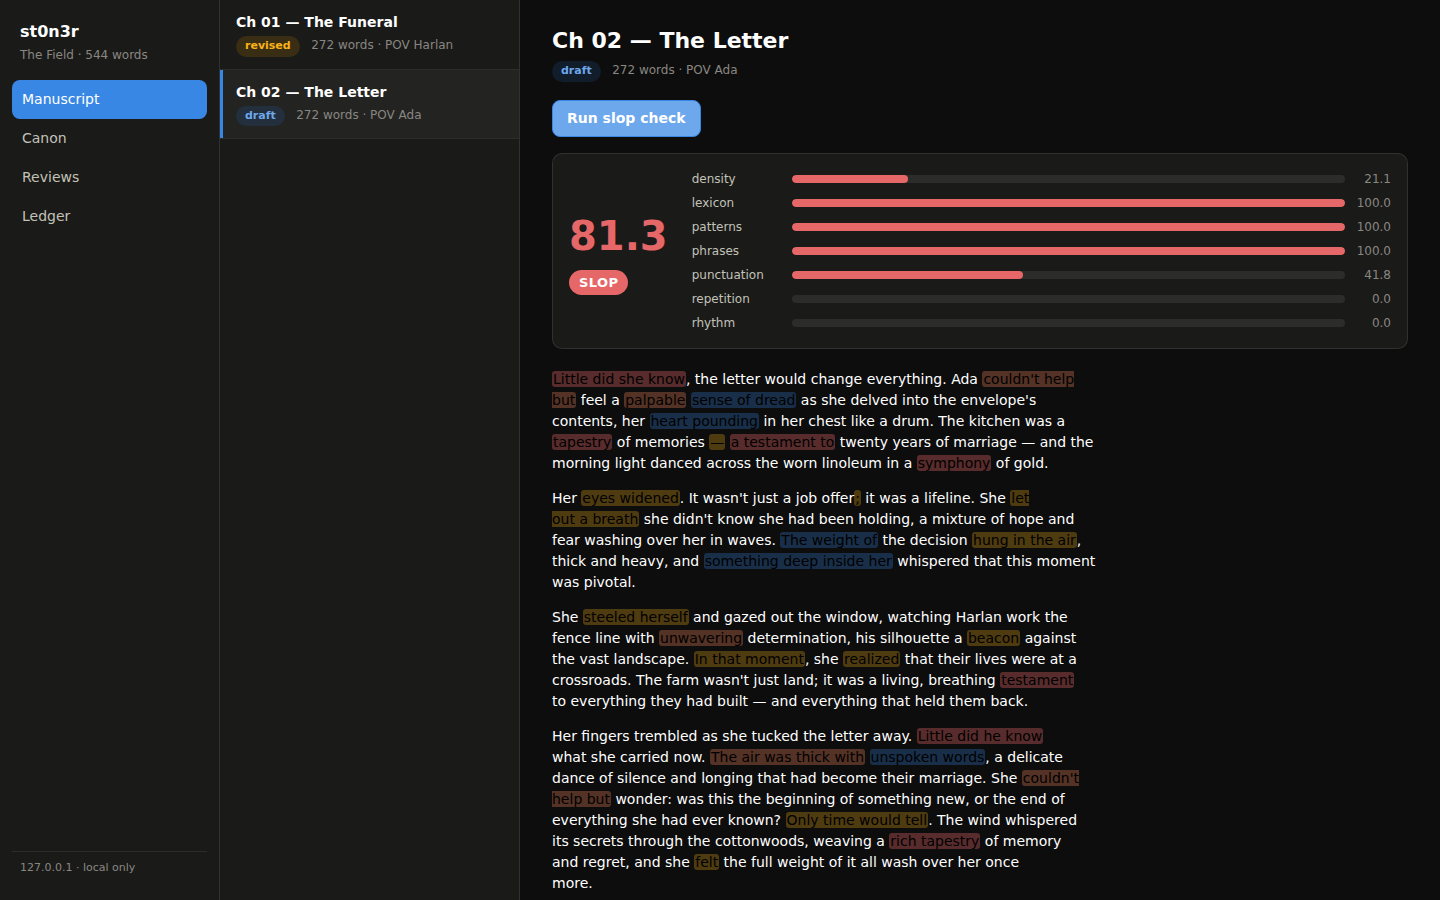
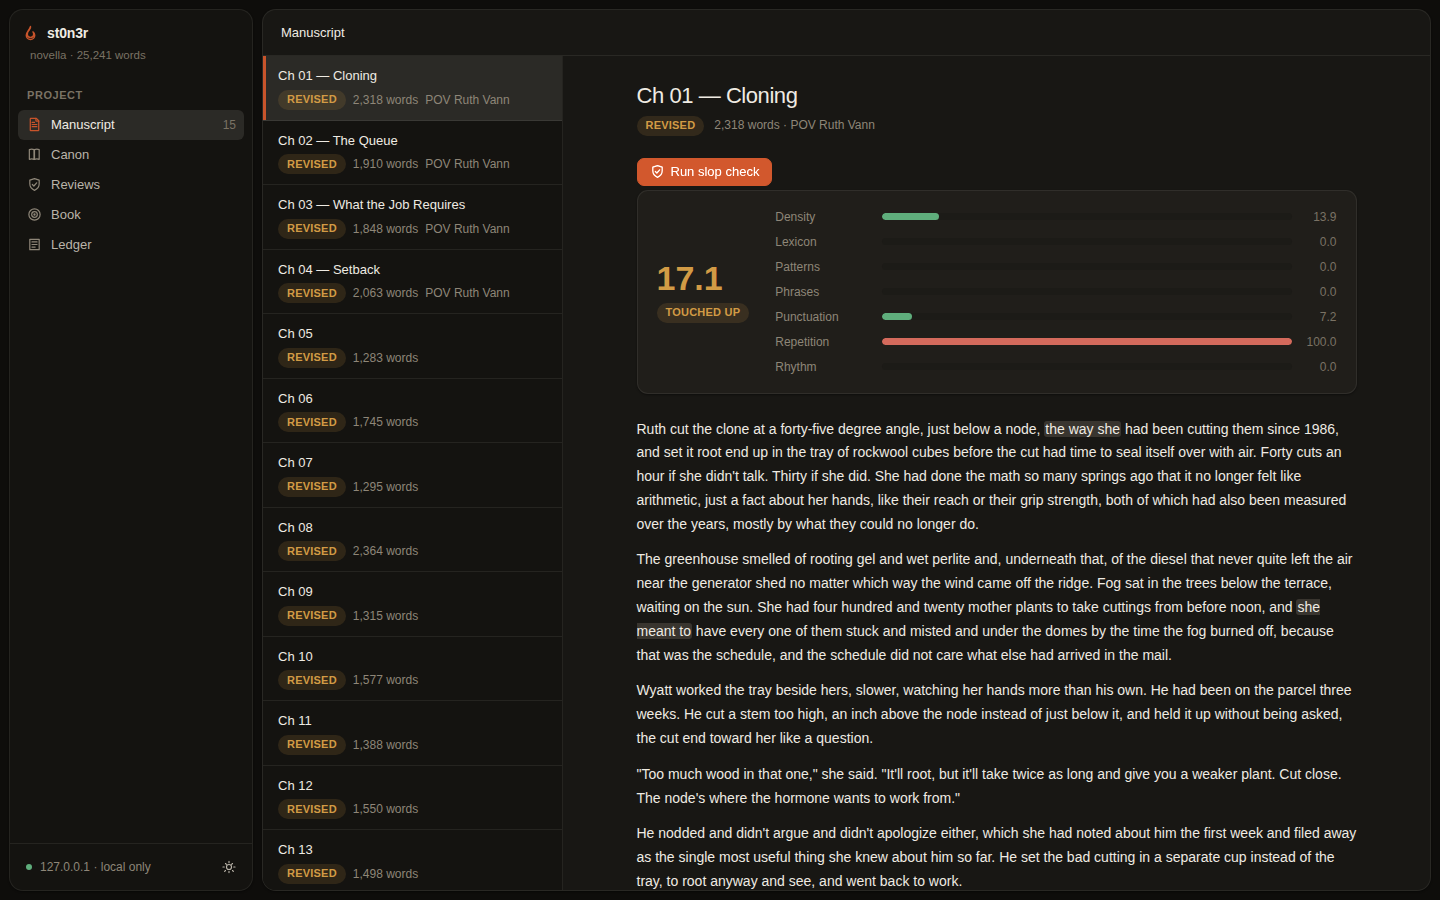
v0.2.0: README with autonomy story, Hearth screenshots over Sungrown; tracker close-out

diff --git a/src/stoner/__init__.py b/src/stoner/__init__.py
@@ -1,3 +1,3 @@
 """st0n3r — an AI harness purpose-built for long-form writing."""
 
-__version__ = "0.1.0"
+__version__ = "0.2.0"

diff --git a/README.md b/README.md
@@ -29,7 +29,8 @@ structurally:
 | Context overflow | **Memory** — rolling chapter summaries; the agent never reads the whole manuscript, it queries canon and asks for what it needs |
 | AI slop | **Deterministic detector** — 7 analyzers, 400+ lexicon entries and patterns, statistical rhythm checks; a hard gate in the write pipeline, no LLM required |
 | Shallow self-review | **Critic passes** — continuity, pacing, voice, line, logic, adversarial cut-analysis, a four-persona reader panel, and comparative STRONG/FINE/WEAK/CUT grading (absolute 1–10 scores collapse; comparisons don't) |
-| Vendor lock-in | **Provider layer** — Anthropic API, any OpenAI-compatible endpoint (OpenAI, OpenRouter, Together, Groq, Ollama, vLLM…), or the Codex CLI on a ChatGPT subscription |
+| Vendor lock-in | **Provider layer** — Anthropic API, any OpenAI-compatible endpoint (OpenAI, OpenRouter, Together, Groq, Ollama, vLLM…), the Codex CLI on a ChatGPT subscription, or the Claude Code CLI on a Claude subscription |
+| "Now write the whole thing" | **Autonomous mode** — seed → brainstorm → generated canon/outline/beats → resumable chapter loop with whole-manuscript review rounds. [It has shipped a book.](examples/novella/) |
 
 The slop detector at work — no LLM involved, pure analysis:
 
@@ -46,6 +47,14 @@ stoner init my-novel && cd my-novel
 stoner write 1                     # draft -> slop gate -> archive
 stoner review 1                    # eight critic passes, saved report
 stoner ui                          # local dashboard: heatmaps, triage, canon
+```
+
+Or let it run the whole way:
+
+```bash
+stoner brainstorm "a quiet novella about ..."   # seed -> premise + style guide
+stoner foundation                               # characters, world, threads, outline, beats
+stoner book                                     # every chapter + whole-book review rounds; resumable
 ```
 
 Every command works on plain files. Nothing is hidden in a database; a writer
@@ -85,6 +94,10 @@ contradicts — the manuscript and the bible cannot silently drift apart.
 | `stoner canon new character/world <name>` | Instantiate a story-bible entry from the template |
 | `stoner beats <n>` | Create the beat sheet the writer agent drafts from |
 | `stoner write <n>` | Full pipeline: draft → slop gate (auto-revise) → archivist |
+| `stoner brainstorm "<seed>"` | Seed → premise.md + style.md |
+| `stoner foundation` | Generate characters/world/threads/outline/beats, with an evaluate-iterate loop |
+| `stoner book` | Autonomous mode: draft every chapter, whole-book reviews, revision rounds, resumable |
+| `stoner review-book` | One whole-manuscript review (critic + professor-of-fiction) |
 | `stoner slop <n\|file\|all>` | Deterministic slop report with score, findings, spans |
 | `stoner review <n>` | Critic passes → structured findings saved to `.stoner/reviews/` |
 | `stoner revise <n>` | Model rewrites the chapter applying accepted findings |
@@ -109,24 +122,37 @@ models:
 `anthropic`, `openai`, `openrouter`, `together`, `groq`, `ollama` work out of
 the box (keys via env vars); any other OpenAI-compatible endpoint is one
 `providers:` block away; `codex/<model>` drives the Codex CLI under your
-ChatGPT subscription. Providers that can't do native tool-calling get a
-fenced-JSON fallback automatically. See [docs/providers.md](docs/providers.md).
+ChatGPT subscription, and `claude/<model>` drives the Claude Code CLI under
+your Claude subscription. Text-only CLI backends draft chapters in one
+comprehensive completion; everywhere else they get a fenced-JSON tool
+fallback automatically. See [docs/providers.md](docs/providers.md).
+
+## Proof of output
+
+st0n3r has written a book with itself: [**Sungrown**](examples/novella/), a
+15-chapter, 25,000-word literary novella (a legacy Humboldt grower meets
+legalization), generated end-to-end — seed → canon → outline → chapters → six
+whole-manuscript review rounds — with every chapter passing the slop gate and
+the full canon/ledger/review trail committed alongside the prose.
 
 ## The dashboard
 
-`stoner ui` serves a local dashboard (nothing leaves 127.0.0.1). The
-manuscript browser runs live slop checks and paints every finding onto the
-prose:
+`stoner ui` serves a local dashboard (nothing leaves 127.0.0.1), built on the
+[Hearth](https://github.com/skeletor-js/Hearth) design system. The manuscript
+browser runs live slop checks and paints every finding onto the prose — here
+on the novella's real first chapter:
 
 ![Manuscript view with slop heatmap](docs/assets/ui-slop.png)
 
-Review findings are triaged here — accept or dismiss, then `stoner revise`
-applies what you accepted:
+The Book panel tracks autonomous runs chapter by chapter:
+
+![Autonomous run progress](docs/assets/ui-book.png)
+
+Review findings are triaged in place — accept or dismiss, then `stoner
+revise` applies what you accepted — and the canon browser shows the bible as
+the agent sees it:
 
 ![Review findings triage](docs/assets/ui-reviews.png)
-
-And the canon browser shows the bible as the agent sees it — hard facts in
-frontmatter, voice and arc in prose:
 
 ![Canon browser](docs/assets/ui-canon.png)
 
@@ -137,6 +163,7 @@ frontmatter, voice and arc in prose:
 - [Providers & models](docs/providers.md)
 - [Slop detection](docs/slop.md)
 - [Review & revision](docs/review.md)
+- [Autonomous mode](docs/autonomous.md)
 - [The web UI](docs/ui.md)
 - [FAQ](docs/faq.md)
 - [Credits](docs/CREDITS.md) — and the planning/research trail in
@@ -157,8 +184,9 @@ project root, and every action lands in `.stoner/ledger.jsonl`.
 
 ## Status
 
-v0.1.0 — functional end to end; young. Interfaces may move. Currently a
-private repo; MIT-licensed and structured for open-sourcing when it's ready.
+v0.2.0 — functional end to end, with a complete generated novella as proof.
+Young; interfaces may move. Currently a private repo; MIT-licensed and
+structured for open-sourcing when it's ready.
 
 ## License
 

diff --git a/docs/planning/TRACKER.md b/docs/planning/TRACKER.md
@@ -3,7 +3,7 @@
 State file for cross-run continuity. Update after every meaningful step.
 Statuses: `todo` | `wip` | `done` | `blocked`.
 
-_Last updated: 2026-07-07 (run 1)_
+_Last updated: 2026-07-07 (run 1) — v2 COMPLETE_
 
 ## Phase status
 
@@ -30,13 +30,13 @@ _Last updated: 2026-07-07 (run 1)_
 | 8 | reviewer subagent QA pass + fixes | done | 18/18 confirmed findings fixed, 11 regression tests |
 | 9 | README + docs/ | wip | docs agent + orchestrator README |
 | 9 | LICENSE (MIT) + attribution | done | LICENSE + docs/CREDITS.md |
-| 9 | final push | todo | |
+| 9 | final push | done | v0.2.0 |
 | v2 | claude_code provider | done | bef8527; live-verified in-env |
 | v2 | foundation pipeline (brainstorm/canon gen) | done | d047f9e, 13 tests; CLI wired |
 | v2 | autonomous book mode + whole-book review | done | abeb1f4, 15 tests; CLI wired |
 | v2 | UI v2 (Hearth design system) | done | in a0ed68c; both themes verified vs Hearth |
-| v2 | proof of output (novella in examples/) | wip | run in progress: brainstorm done, foundation running |
-| v2 | docs v2 reconciliation | todo | |
+| v2 | proof of output (novella in examples/) | done | Sungrown: 15 ch / 25,241 words / 6 review rounds / 0 criticals |
+| v2 | docs v2 reconciliation | done | 4c68596 + autonomous.md |
 
 ## Decisions log
 
@@ -76,3 +76,10 @@ _Last updated: 2026-07-07 (run 1)_
 - **Run 1 (cont):** GOAL EXPANDED by owner: autonomy, proof of output, Hearth UI. claude CLI confirmed working in-env (claude_code provider = proof vehicle). Hearth cloned to scratchpad. Launching wave 3.
 - **Run 1 (cont):** claude_code provider landed + live smoke (PONG, real usage). Banned terms wired into detector. UI v2 agent launched with Hearth design brief. Foundation + book agents still running. Proof-of-output plan: novella on a legacy cannabis farm during legalization (Stoner-quiet, owner's industry), writer=claude/sonnet, archivist/reviewer=claude/haiku, under examples/.
 - **Run 1 (cont):** Foundation + book mode + Hearth UI all landed and wired (224 tests). Proof run started: examples/novella (Ruth Vann, Humboldt legalization novella), writer/reviewer=claude/sonnet, archivist=claude/haiku. Brainstorm complete; foundation generating.
+- **Run 1 (FINAL):** v2 complete. Sungrown novella finished (15 ch, 25,241 words, 6 whole-book
+  review rounds, 0 critical / 5 major remaining at plateau) and committed under examples/novella
+  with its own README. Two live-run bugs found and fixed with tests (textproto format-retry;
+  single-shot drafting for text-only providers) plus 4 doc-verification fixes. README rewritten
+  for v0.2.0 with Hearth-UI screenshots over the real book. 227 tests green. Repo remains private.
+  Remaining majors in the novella are honest reviewer findings a human author would triage in the
+  UI — left in place as a realistic artifact.
